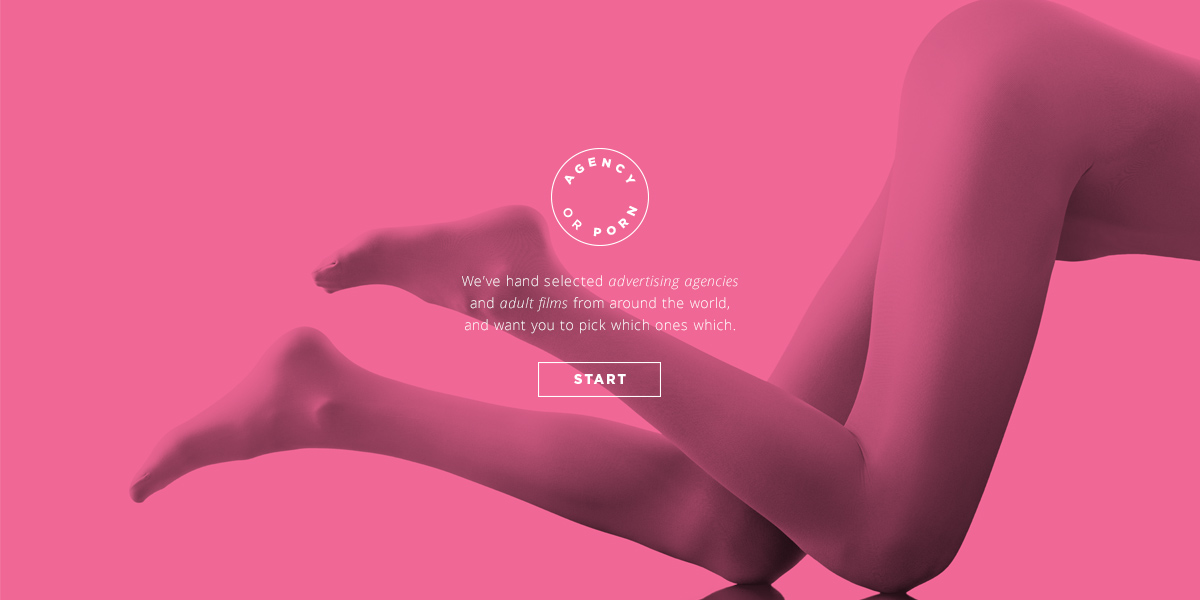
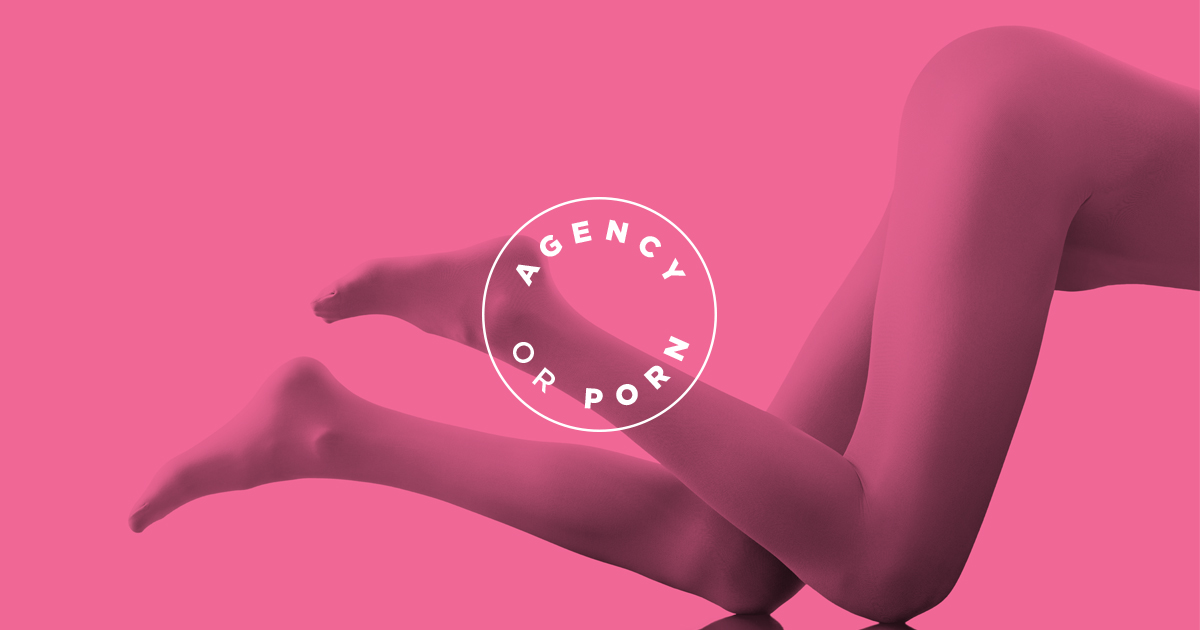
homepage copy, update porn link text, double check json is in line with google doc, update json with porn urls, new social share image, @2x images

diff --git a/templates/question-ctrl.html b/templates/question-ctrl.html
@@ -39,8 +39,11 @@
                     <div data-ng-switch-when="no">YOU&rsquo;RE WRONG</div>
                   </div>
                   <div class="question-year">
-                    <span data-ng-bind="current.year"></span>
-                    <span> / Starring</span>
+                    <a data-ng-href="http://{{ current.url }}" target="_blank">
+                      <span data-ng-bind="current.title"></span>
+                      <span> / </span>
+                      <span data-ng-bind="current.year"></span>
+                    </a>
                   </div>
                   <div class="question-cast">
                     <div class="row">

diff --git a/templates/start-ctrl.html b/templates/start-ctrl.html
@@ -3,7 +3,7 @@
     <!-- CONTENT -->
     <div data-ng-switch-when="loaded" class="fade container">
       <div class="agency-or-porn-logo"></div>
-      <h2>We’ve hand selected <em>advertising agencies</em> and <em>adult films</em> from around the world, and want you to pick which one's which.</h2>
+      <h2>Can you tell the difference between the masters of sex and the masters of selling? Guess which of these tantalizing names belong to <em>agencies</em> and which ones are <em>adult films</em>.
       <a data-ng-href="#/{{ current.slug }}" class="button"><img src="img/button-start.png"/></a>
       <!--
       <div class="fixed-footer">

diff --git a/css/app.css b/css/app.css
@@ -484,6 +484,12 @@ h3 a:hover, h3 a:active{
     margin-bottom: 10px;
     line-height: 24px;
   }
+  .question-year a, .question-year a:visited{
+    line-height: 24px;
+  }
+  .question-year a:hover, .question-year a:active{
+    text-decoration: underline;
+  }
   .question-cast{
     line-height: 24px;
   }
